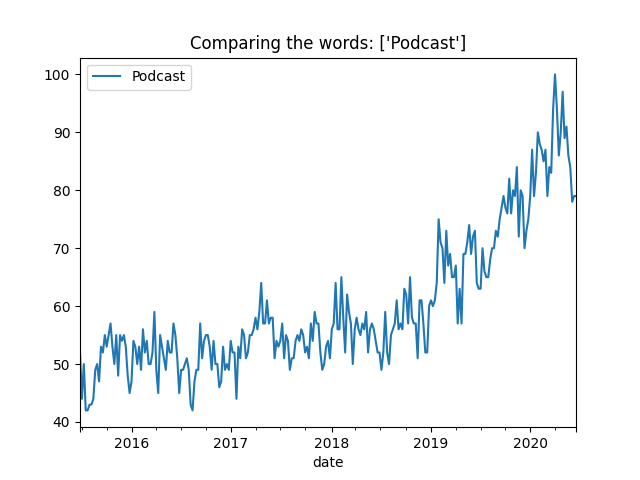
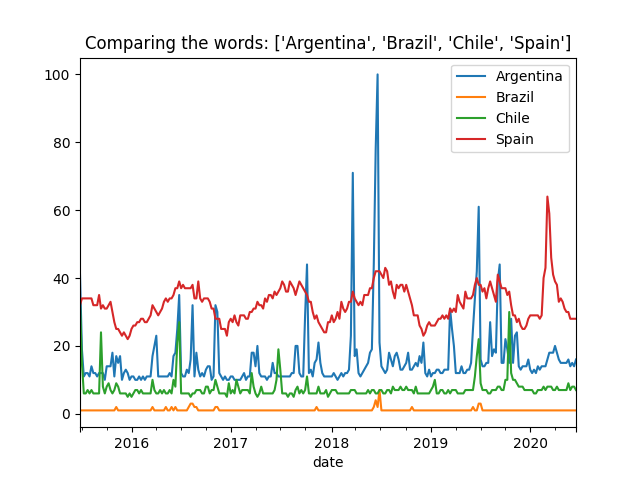
New Code to Plot comparison Words with the PyTrend API from Google like this Article states: https://medium.com/@yanweiliu/getting-the-google-trends-data-with-python-67b335e7d1cf Added the Request List of Words to compare on the Final part of the Code and added comments

diff --git a/pytrends_2.py b/pytrends_2.py
@@ -18,7 +18,7 @@ print()
 print("See Related Queries to a Particular Query o Queries (Suggested to use just one")
 #kw_list = ["Podcast"]
 kw_list = list()
-kw = input("Enter the Keywords you want to look up separated by a ,: ")
+kw = input("Enter the Keywords you want to look up separated by a , and no spaces: ")
 kw = kw.split(",")
 for word in kw:
     kw_list.append(word)
@@ -31,16 +31,17 @@ tb = pytrend.build_payload(
     gprop='')
 rq = pytrend.related_queries()
 #rq = rq.drop(labels=['isPartial'],axis='columns')
-top = rq.get('Podcast').get('top')
-print("Top Queries related to: {}".format(kw_list))
-print(top)
-print()
-print("Top Trending Queries related to: {}".format(kw_list))
-rising = rq.get('Podcast').get('rising')
-print(rising)
+for word in kw_list:
+    print("Top Queries related to: {}".format(word))
+    top = rq.get(word).get('top')
+    print(top)
+    print()
+    print("Top Trending Queries related to: {}".format(word))
+    rising = rq.get(word).get('rising')
+    print(rising)
 
 print()
-print("Interest Over Time of the befored Selected Queries")
+print("Interest Over Time of the befored Selected Queries figure Created")
 iot = pytrend.interest_over_time()
 iot = iot.drop(labels=['isPartial'],axis='columns')
 img = iot.plot(title = 'Comparing the words: {}'.format(kw_list))
